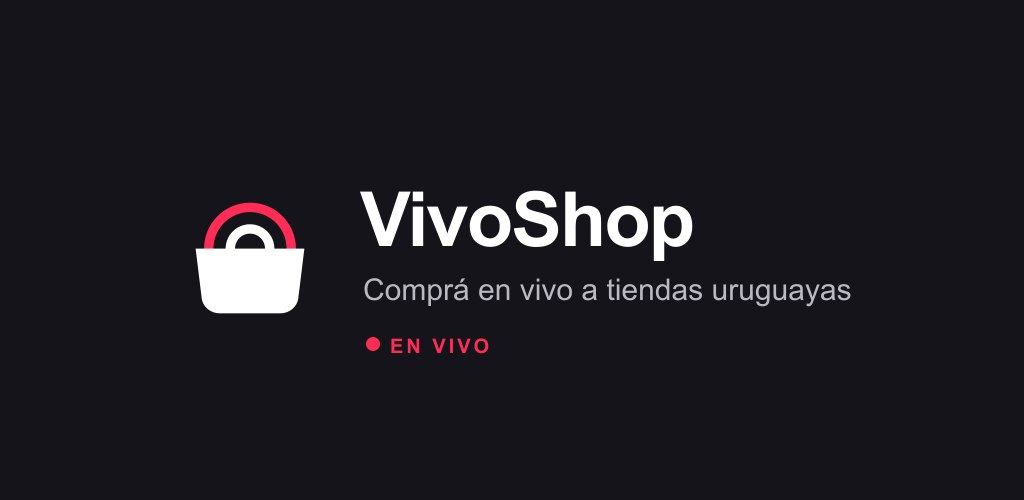
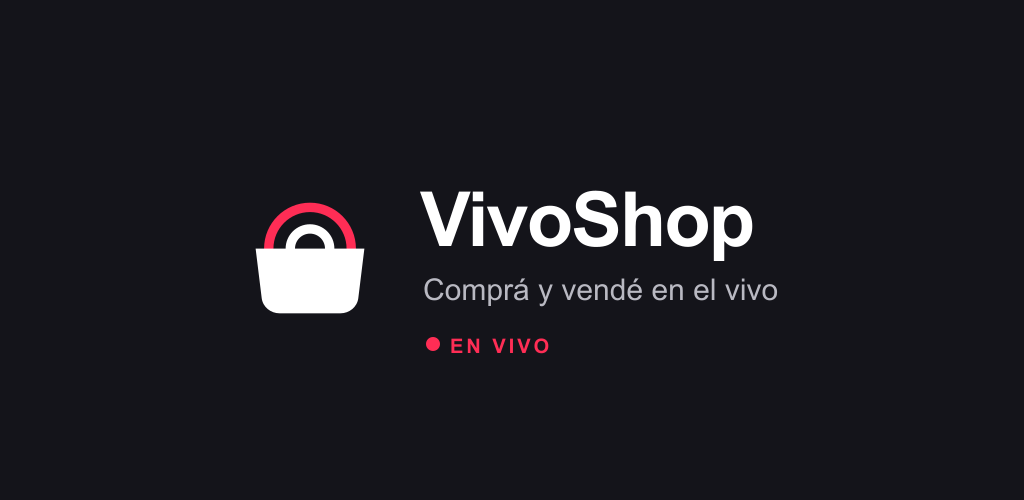
La posicion apuntaba a "tiendas uruguayas" y dejaba afuera al publico real
"Tiendas uruguayas" describe comercios formales. El publico de este producto es
la persona que ya vende transmitiendo en una red social y anota los pedidos en
los comentarios: no tiene local, no siempre tiene empresa, y no se reconoce en
la palabra "tienda" cuando aparece en una ficha de aplicacion.

Esa conducta tiene nombre propio en la region --ventas en vivo-- y es lo que la
gente busca. Los textos ahora apuntan a la conducta y no a un tipo de comercio, y
dicen explicitamente que no hace falta tener local ni empresa.

Cambia: la descripcion del sitio y del manifest, la imagen que se ve al
compartir, el grafico destacado de Play, el encabezado del inicio --"Comercio en
vivo" tambien arrastraba la idea de local, porque "un comercio" es eso-- y la
definicion de que es VivoShop en las Condiciones, que ahora abarca "un comercio,
un emprendimiento o alguien que vende por su cuenta".

El nombre en Play pasa a "VivoShop: ventas en vivo" y la descripcion completa se
reescribio alrededor del problema concreto: la lista de comentarios, el alias por
privado y las transferencias cruzadas a mano.

Los textos NO nombran ninguna plataforma competidora. Play desaconseja
referenciar otras marcas, y describir la conducta pega mas fuerte que nombrarla.

Lo que NO cambia: "tienda" adentro de la aplicacion. Alguien que vende por vivo
igual llama asi a su espacio, y renombrarlo tocaria base, API y las URLs
/tienda/[slug] para ganar poco.

Gates: lint 0 errores, tsc limpio, 47 E2E.

Changed region(s): [[0.1875, 0.36, 0.8438, 0.63], [0.3438, 0.66, 0.5312, 0.72]]

diff --git a/apps/web/src/app/layout.tsx b/apps/web/src/app/layout.tsx
@@ -23,7 +23,7 @@ export const metadata: Metadata = {
     template: `%s · ${APP_NAME}`,
   },
   description:
-    'Mirá transmisiones en vivo de tiendas uruguayas, preguntá en el chat y comprá sin salir del video.',
+    'Mirá vivos de venta y comprá en el momento, sin anotar nada en los comentarios. Si vendés en vivo, cobrás en el mismo vivo.',
   applicationName: APP_NAME,
   appleWebApp: { capable: true, statusBarStyle: 'black-translucent', title: APP_NAME },
   formatDetection: { telephone: false },
@@ -46,7 +46,7 @@ export const metadata: Metadata = {
     locale: 'es_UY',
     siteName: APP_NAME,
     title: `${APP_NAME} — comprá en vivo`,
-    description: 'Live commerce hecho en Uruguay.',
+    description: 'Ventas en vivo, hechas en Uruguay.',
   },
 };
 

diff --git a/apps/web/src/app/(legal)/terminos/page.tsx b/apps/web/src/app/(legal)/terminos/page.tsx
@@ -37,9 +37,9 @@ export default function TerminosPage() {
 
       <h2>1. Qué es VivoShop</h2>
       <p>
-        VivoShop es una plataforma donde tiendas uruguayas transmiten en vivo y venden durante la
-        transmisión. Es operada por <strong>Jairo Rifrán</strong>, con domicilio en Montevideo,
-        Uruguay.
+        VivoShop es una plataforma donde cualquier persona que venda —un comercio, un emprendimiento
+        o alguien que vende por su cuenta— transmite en vivo y vende durante la transmisión. Es
+        operada por <strong>Jairo Rifrán</strong>, con domicilio en Montevideo, Uruguay.
       </p>
       <p>
         <strong>VivoShop no vende nada.</strong> Somos el lugar donde se encuentran quien vende y

diff --git a/apps/web/src/app/(buyer)/page.tsx b/apps/web/src/app/(buyer)/page.tsx
@@ -35,7 +35,7 @@ export default async function HomePage() {
     <div className="flex flex-col gap-8 pt-safe">
       <header className="flex items-center justify-between gap-3 px-4 pt-2">
         <div>
-          <p className="text-[13px] font-semibold text-subtle">Comercio en vivo · Uruguay</p>
+          <p className="text-[13px] font-semibold text-subtle">Ventas en vivo · Uruguay</p>
           <h1 className="text-[28px] leading-tight">
             <VivoWordmark markClassName="size-7" />
           </h1>

diff --git a/apps/web/src/app/(legal)/layout.tsx b/apps/web/src/app/(legal)/layout.tsx
@@ -53,7 +53,7 @@ export default function LegalLayout({ children }: { children: ReactNode }) {
 
       <footer className="border-t border-line py-6 text-[13px] text-subtle">
         <p>
-          VivoShop · Comercio en vivo en Uruguay ·{' '}
+          VivoShop · Ventas en vivo en Uruguay ·{' '}
           <a
             href="mailto:hola@vivoshop.live"
             className="font-semibold text-brand underline underline-offset-2"

diff --git a/apps/web/src/app/manifest.ts b/apps/web/src/app/manifest.ts
@@ -7,7 +7,7 @@ export default function manifest(): MetadataRoute.Manifest {
     name: `${APP_NAME} — comprá en vivo`,
     short_name: APP_NAME,
     description:
-      'Mirá transmisiones en vivo de tiendas uruguayas y comprá sin salir del video.',
+      'Comprá en vivos de venta sin salir de la transmisión. Y si vendés en vivo, cobrá en el momento.',
     id: '/',
     start_url: '/',
     scope: '/',

diff --git a/apps/web/src/app/opengraph-image.tsx b/apps/web/src/app/opengraph-image.tsx
@@ -75,7 +75,7 @@ export default function OpenGraphImage() {
             color: '#b9b9c2',
           }}
         >
-          Comprá en vivo a tiendas uruguayas
+          Comprá y vendé en el vivo
         </div>
 
         <div style={{ display: 'flex', alignItems: 'center', gap: 16, marginTop: 44 }}>

diff --git a/docs/play.md b/docs/play.md
@@ -66,42 +66,68 @@ código ni volver a desplegar el repositorio.**
 
 ## 4. Textos de la ficha
 
+### La posición: "ventas en vivo", no "tiendas"
+
+Los primeros textos decían *"tiendas uruguayas"*, y estaba mal apuntado.
+Describe comercios formales y deja afuera al público real de este producto: la
+persona que **ya vende transmitiendo** en una red social y anota los pedidos en
+los comentarios.
+
+Esa conducta tiene un nombre propio en la región —**ventas en vivo**— y es lo
+que la gente busca. Los textos apuntan a la conducta, no a un tipo de comercio,
+y dicen explícitamente que no hace falta tener local ni empresa.
+
+Los textos **no nombran a ninguna plataforma competidora**. Play desaconseja
+referenciar otras marcas, y además describir la conducta —"anotar pedidos en los
+comentarios"— pega más fuerte que nombrarla.
+
 ### Nombre de la app (máx. 30)
 
 ```
-VivoShop: comprá en vivo
+VivoShop: ventas en vivo
 ```
+
+24 caracteres. "Ventas en vivo" cubre las dos puntas: quien busca comprar y
+quien busca vender.
 
 ### Descripción breve (máx. 80)
 
 ```
-Mirá vivos de tiendas uruguayas y comprá sin salir de la transmisión.
+Comprá en el vivo. Y si vendés en vivo, cobrá sin anotar comentarios.
 ```
+
+69 caracteres.
 
 ### Descripción completa
 
 ```
-VivoShop es comercio en vivo hecho en Uruguay.
+VivoShop es la app de las ventas en vivo.
 
-Las tiendas transmiten desde el celular, muestran lo que tienen y responden en
-el momento. Vos mirás, preguntás en el chat y comprás sin salir del vivo.
+Si ya vendés transmitiendo --mostrando lo que tenés, respondiendo preguntas,
+anotando quién se lleva qué-- sabés cómo termina: una lista de comentarios,
+mensajes por privado para pasar el alias, y transferencias que hay que ir
+cruzando a mano.
 
-QUÉ PODÉS HACER
+Acá el vivo y el cobro son la misma cosa.
 
-• Mirar transmisiones en vivo de tiendas uruguayas.
-• Preguntar por talles, colores o envíos y que te contesten ahí mismo.
-• Comprar durante la transmisión, sin cambiar de aplicación.
-• Seguir a tus tiendas y recibir un aviso cuando salen en vivo.
-• Ver el estado de tus pedidos en un solo lugar.
+PARA QUIEN VENDE
 
-SI VENDÉS
+• Transmití desde el celular, sin equipo ni programa aparte.
+• Mostrá el producto y que se pueda comprar en ese mismo momento.
+• Cobrá con tu propia cuenta de Mercado Pago. La plata entra ahí.
+• Se acabó anotar pedidos en los comentarios: cada compra queda registrada.
+• No hace falta tener local ni empresa. Si vendés, podés vender acá.
+• Comisión del 3% sobre cada venta concretada. Nada más.
 
-• Creá tu tienda gratis y transmití desde el celular.
-• Mostrá tus productos durante el vivo y vendé en el momento.
-• Cobrá con tu propia cuenta de Mercado Pago.
-• Comisión del 3% sobre cada venta concretada.
+PARA QUIEN COMPRA
+
+• Mirá vivos y comprá sin salir de la transmisión.
+• Preguntá por talle, color o envío y que te contesten en el momento.
+• Seguí a quien te interesa y recibí un aviso cuando sale en vivo.
+• Mirá el estado de tus pedidos en un solo lugar.
 
 PAGOS
+
 Los cobros los procesa Mercado Pago. Los datos de tu tarjeta nunca pasan por
 los servidores de VivoShop.
 
@@ -111,6 +137,7 @@ cumplir. Lo que sí existe son devoluciones dentro de los plazos de Mercado Pago
 y reclamos con intervención nuestra.
 
 HECHO EN URUGUAY
+
 Precios en pesos, envíos dentro del país y atención en español.
 
 Política de privacidad: https://vivoshop.live/privacidad
